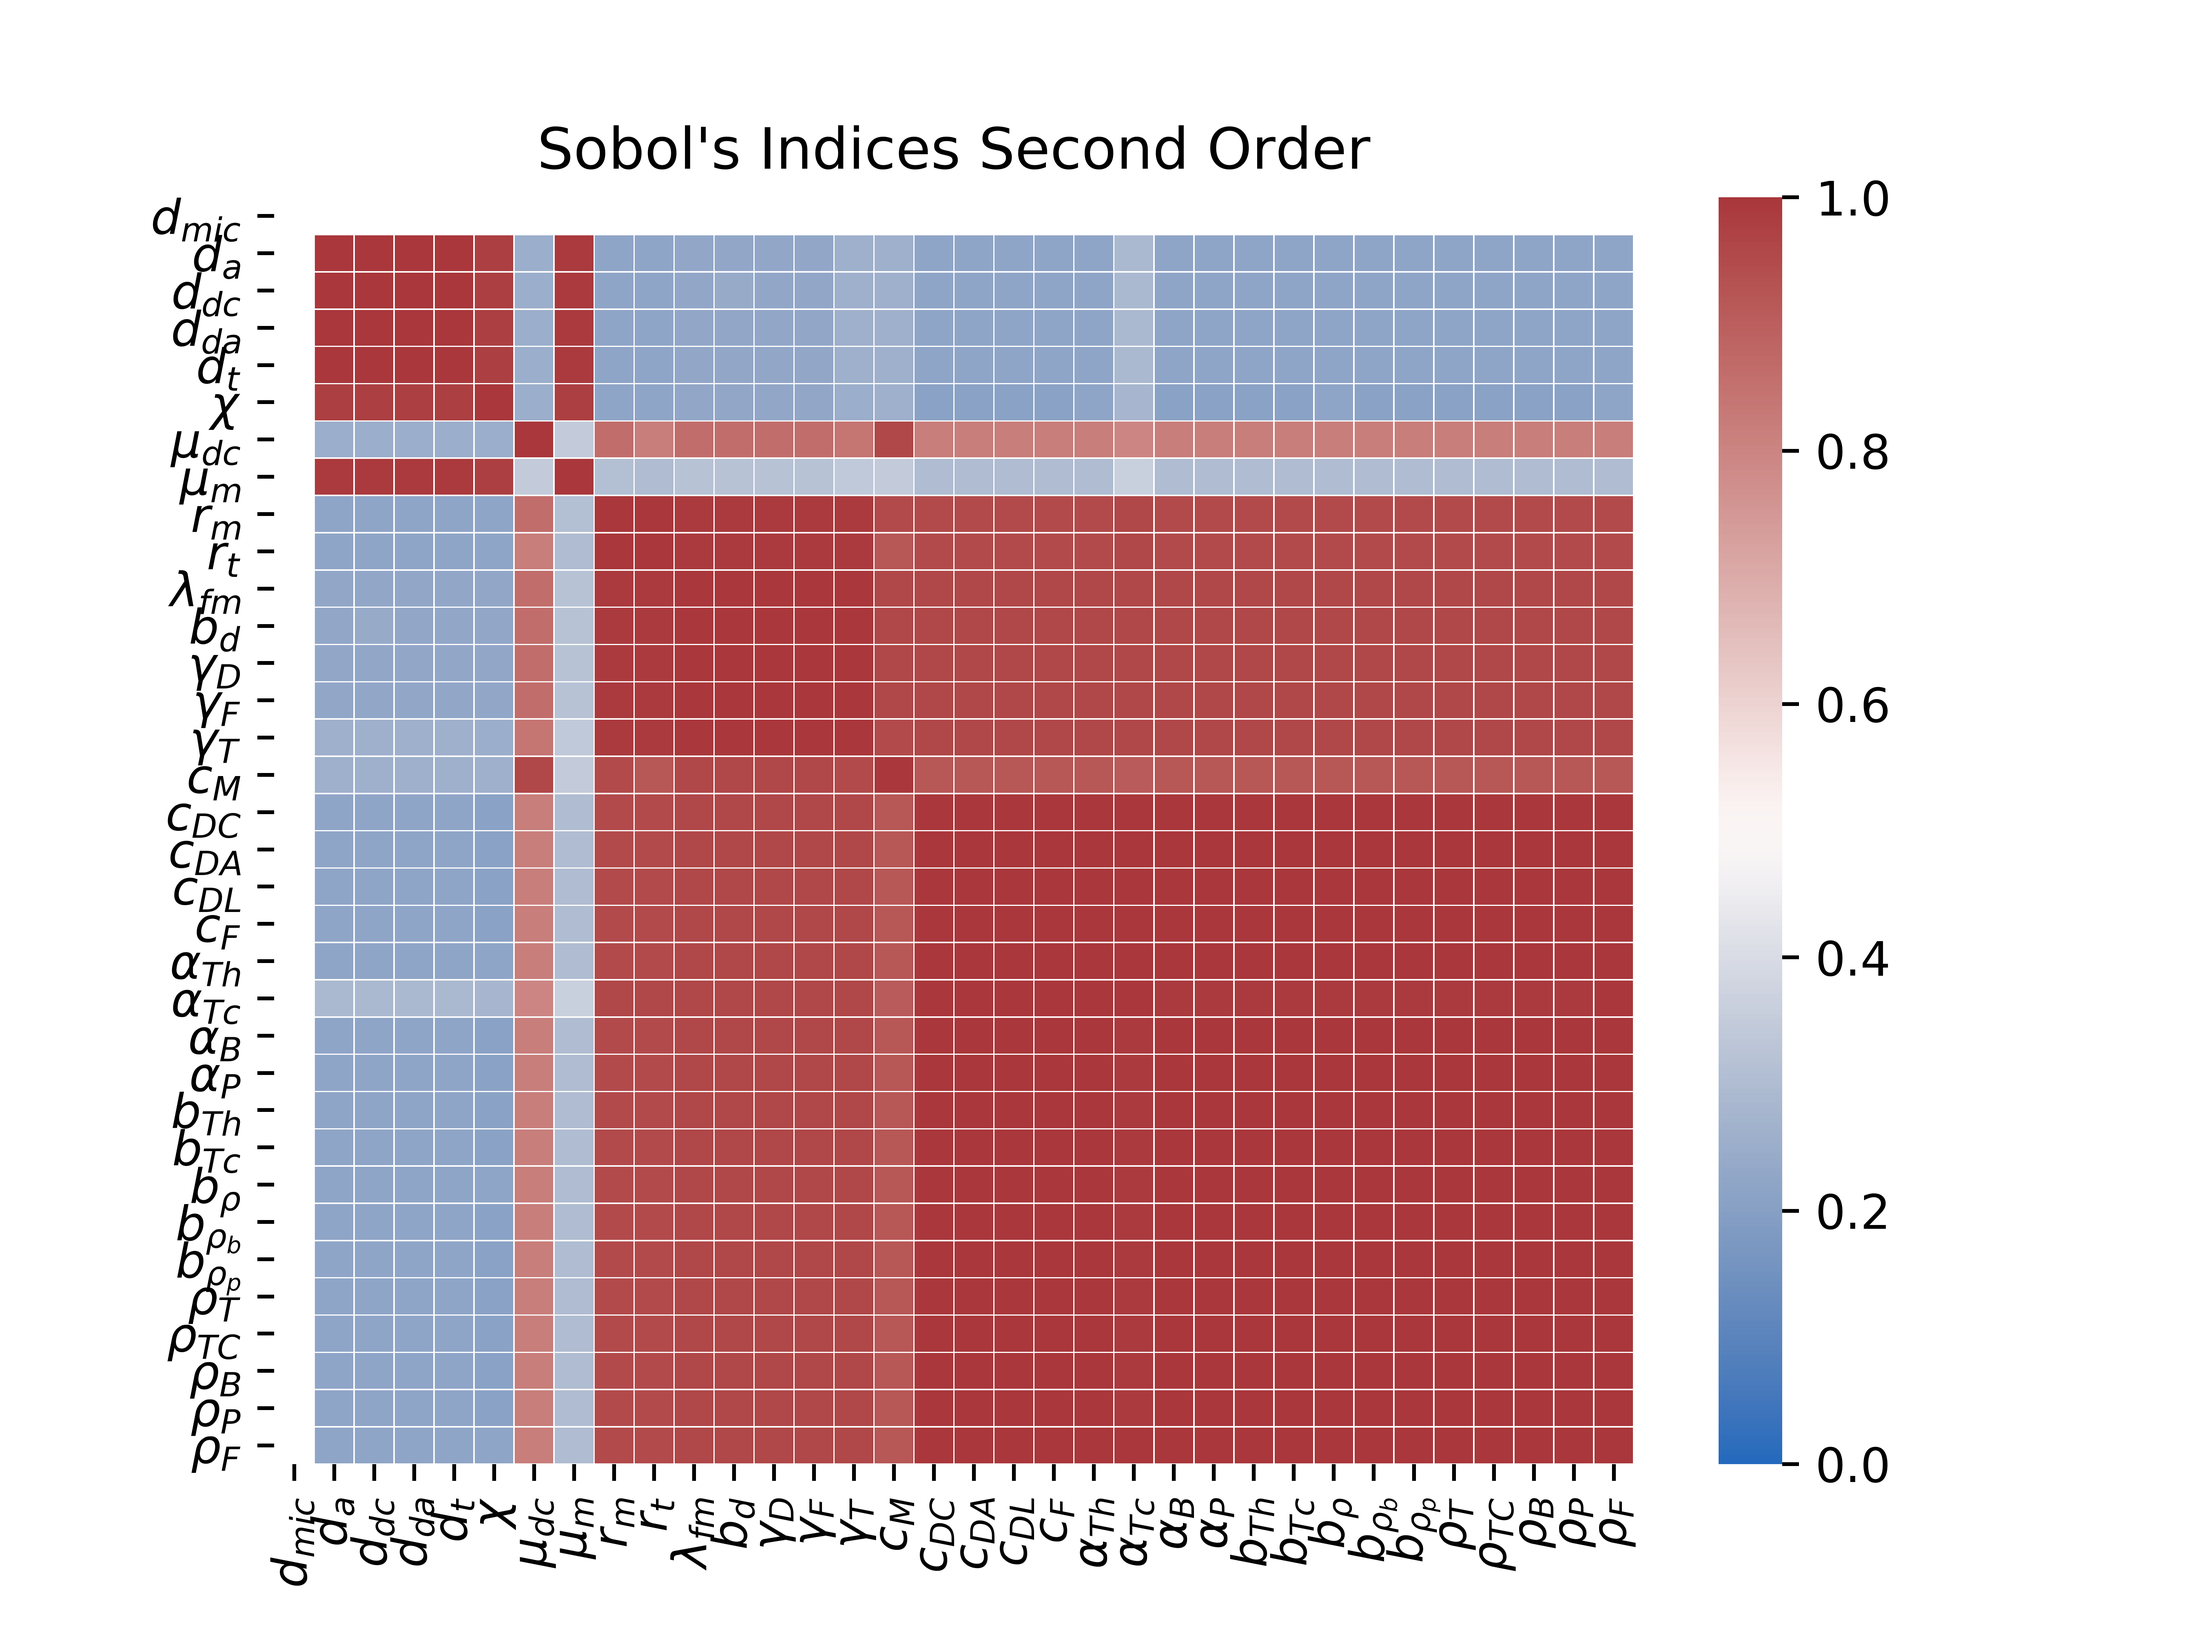
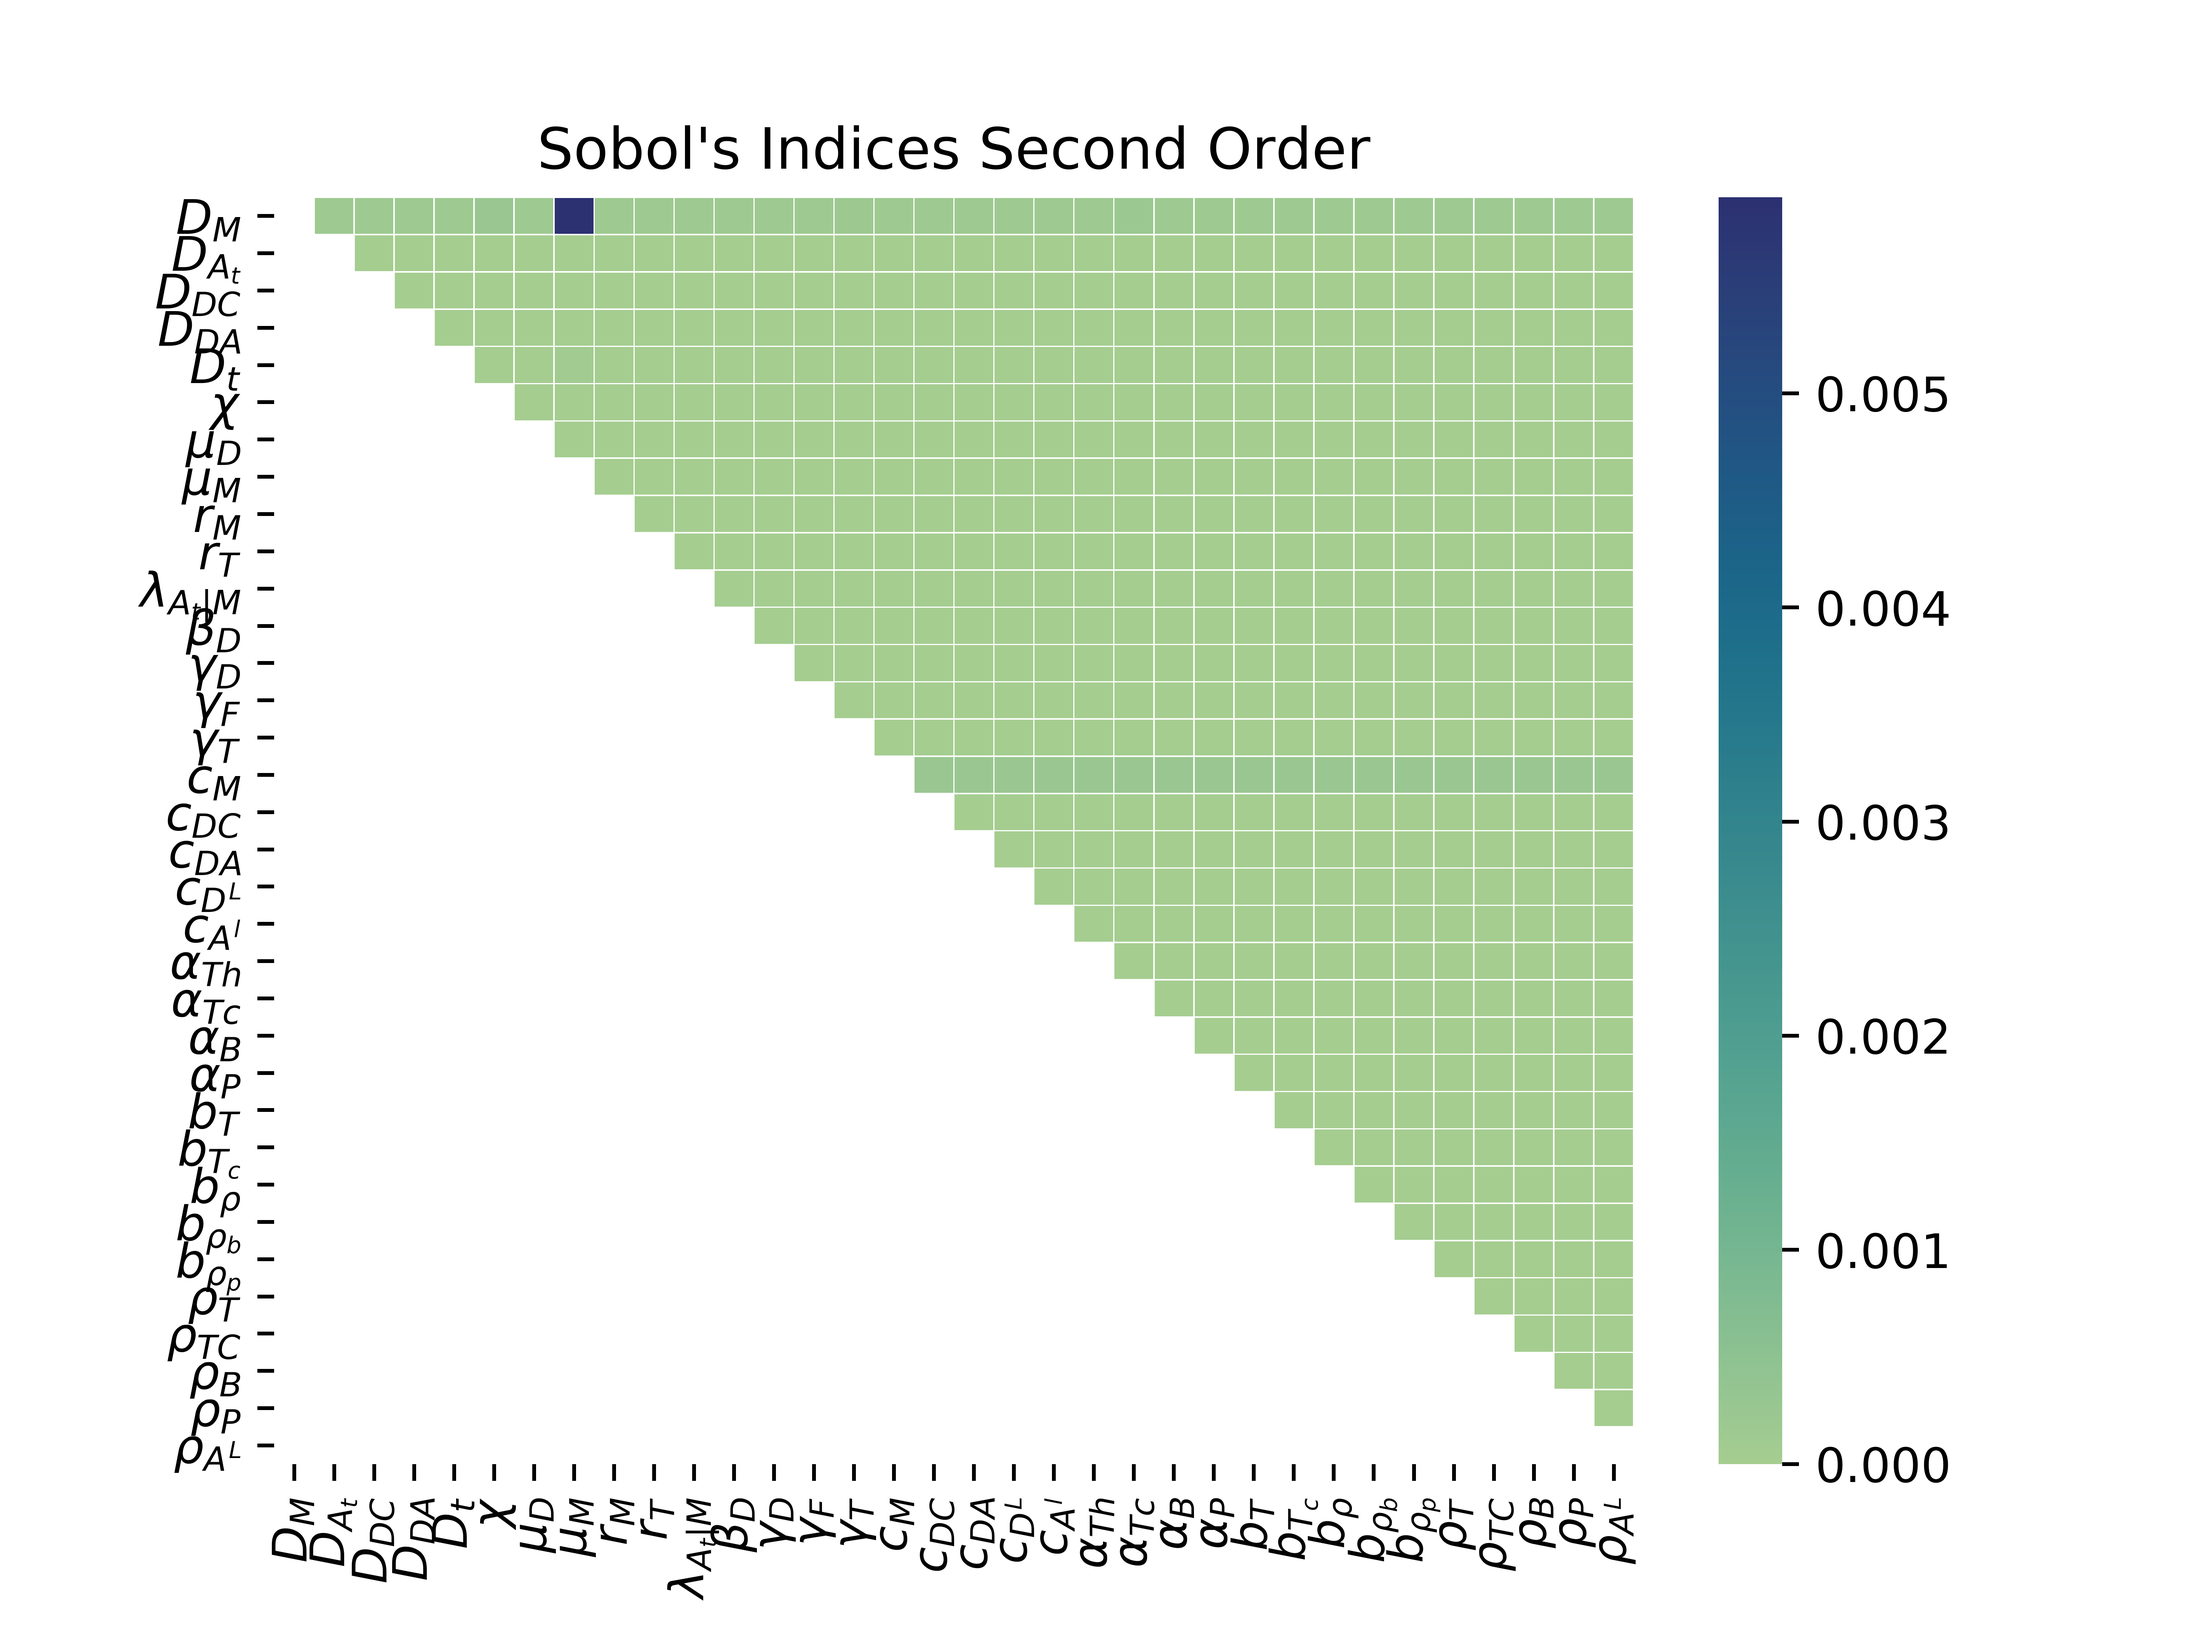
Version of code for ICCS

diff --git a/sensitivity_analysis/sa.py b/sensitivity_analysis/sa.py
@@ -8,52 +8,13 @@ import math
 import pandas as pd
 import seaborn as sns
 
+label = ["$D_{M}$", "$D_{A_t}$", "$D_{DC}$", "$D_{DA}$", "$D_{t}$", "$\chi$", "$\mu_{D}$", "$\mu_M$", "$r_M$", "$r_T$", "$\lambda_{A_t|M}$", "$\\beta_D$", "$\gamma_D$", "$\gamma_F$", "$\gamma_T$", "$c_M$", "$c_{DC}$", "$c_{DA}$", "$c_{D^L}$", "$c_{A^l}$", "$\\alpha_{Th}$", "$\\alpha_{Tc}$", "$\\alpha_B$", "$\\alpha_P$", "$b_{T}$", "$b_{T_c}$", "$b_{\\rho}$", "$b_{\\rho_b}$", "$b_{\\rho_p}$", "$\\rho_T$", "$\\rho_{TC}$", "$\\rho_B$", "$\\rho_P$", "$\\rho_{A^L}$"]
 
 def printResult(indexes, title, fileName):
     
-    labels = ["$d_{mic}$",
-    "$d_{a}$",
-    "$d_{dc}$",
-    "$d_{da}$",
-    "$d_{t}$",
-    "$\chi$",
-
-    "$\mu_{dc}$",
-    "$\mu_m$",
-    "$r_m$",
-    "$r_t$",
-    "$\lambda_{fm}$",
-    "$b_d$",
-
-    "$\gamma_D$",
-    "$\gamma_F$",
-    "$\gamma_T$",
-    
-    "$c_M$",
-    "$c_{DC}$",
-    "$c_{DA}$",
-    "$c_{DL}$",
-    "$c_F$",
-    
-    "$\\alpha_{Th}$",
-    "$\\alpha_{Tc}$",
-    "$\\alpha_B$",
-    "$\\alpha_P$",
-
-    "$b_{Th}$",
-    "$b_{Tc}$",
-    "$b_{\\rho}$",
-    "$b_{\\rho_b}$",
-    "$b_{\\rho_p}$",
-    "$\\rho_T$",
-    "$\\rho_{TC}$",
-    "$\\rho_B$",
-    "$\\rho_P$",
-    "$\\rho_F$"]
-    
     # plt.bar(labels, indexes, color ='maroon')
     plt.title(title)
-    plt.barh(labels, indexes, color ='maroon')
+    plt.barh(label, indexes, color ='maroon')
     plt.xlabel("Sobol's indices")
     # plt.show()
     plt.savefig("./sensitivity_analysis/"+ fileName +".png", dpi = 900)
@@ -225,9 +186,14 @@ problem = {
 
 def printHeatMap(population, title, fileName):
     df = pd.DataFrame(population)
-    matrix = df.corr().round(2)
-    label = ["$d_{mic}$", "$d_{a}$", "$d_{dc}$", "$d_{da}$", "$d_{t}$", "$\chi$", "$\mu_{dc}$", "$\mu_m$", "$r_m$", "$r_t$", "$\lambda_{fm}$", "$b_d$", "$\gamma_D$", "$\gamma_F$", "$\gamma_T$", "$c_M$", "$c_{DC}$", "$c_{DA}$", "$c_{DL}$", "$c_F$", "$\\alpha_{Th}$", "$\\alpha_{Tc}$", "$\\alpha_B$", "$\\alpha_P$", "$b_{Th}$", "$b_{Tc}$", "$b_{\\rho}$", "$b_{\\rho_b}$", "$b_{\\rho_p}$", "$\\rho_T$", "$\\rho_{TC}$", "$\\rho_B$", "$\\rho_P$", "$\\rho_F$"]
-    sns.heatmap(matrix, xticklabels = label, yticklabels = label, annot=False, vmax=1, vmin=0, center=0.5, linewidths=.2, cmap='vlag')
+    matrix = df
+    print(population[0])
+    max_val = 0
+    for i in range(len(population[0])):
+        for j in range(len(population[0])):
+            if population[i][j] > max_val:
+                max_val = population[i][j]    
+    sns.heatmap(matrix, xticklabels = label, yticklabels = label, annot=False, vmax=max_val, vmin=0, center=.5*max_val, linewidths=.2, cmap='crest')
     plt.title(title)
     plt.savefig("./sensitivity_analysis/"+ fileName +".png", dpi = 900)
     plt.clf()
@@ -347,10 +313,7 @@ def RunSA():
 
     printResult(sensitivity['S1'], 'First Order', 'firstOrder')
     printResult(sensitivity['ST'], 'Total Order', 'totalOrder')
-    for i in range(len(sensitivity["S2"][0])):
-        for j in range(len(sensitivity["S2"][0])):
-            if math.isnan(sensitivity["S2"][i][j]):
-                sensitivity["S2"][i][j] = 0
+    
 
     for i in range(len(sensitivity["S1"])):
         if sensitivity["S1"][i] < 0:
